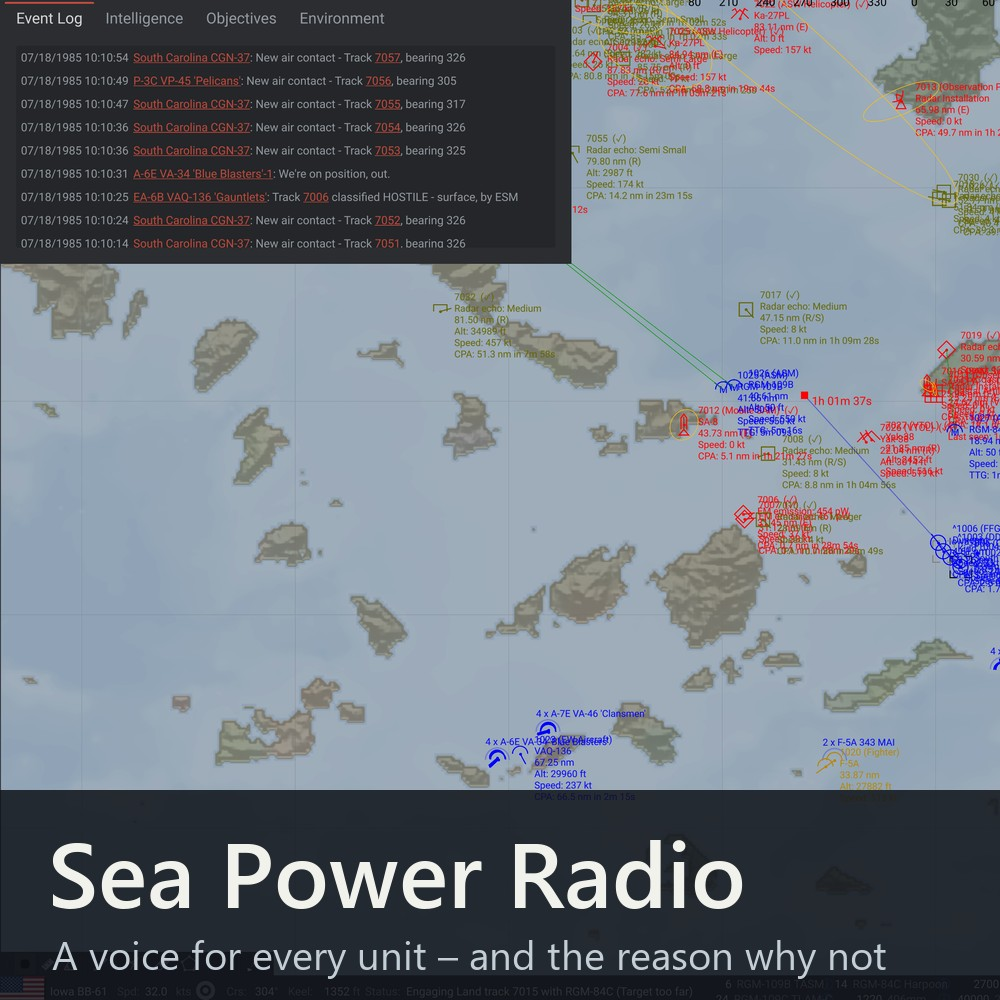
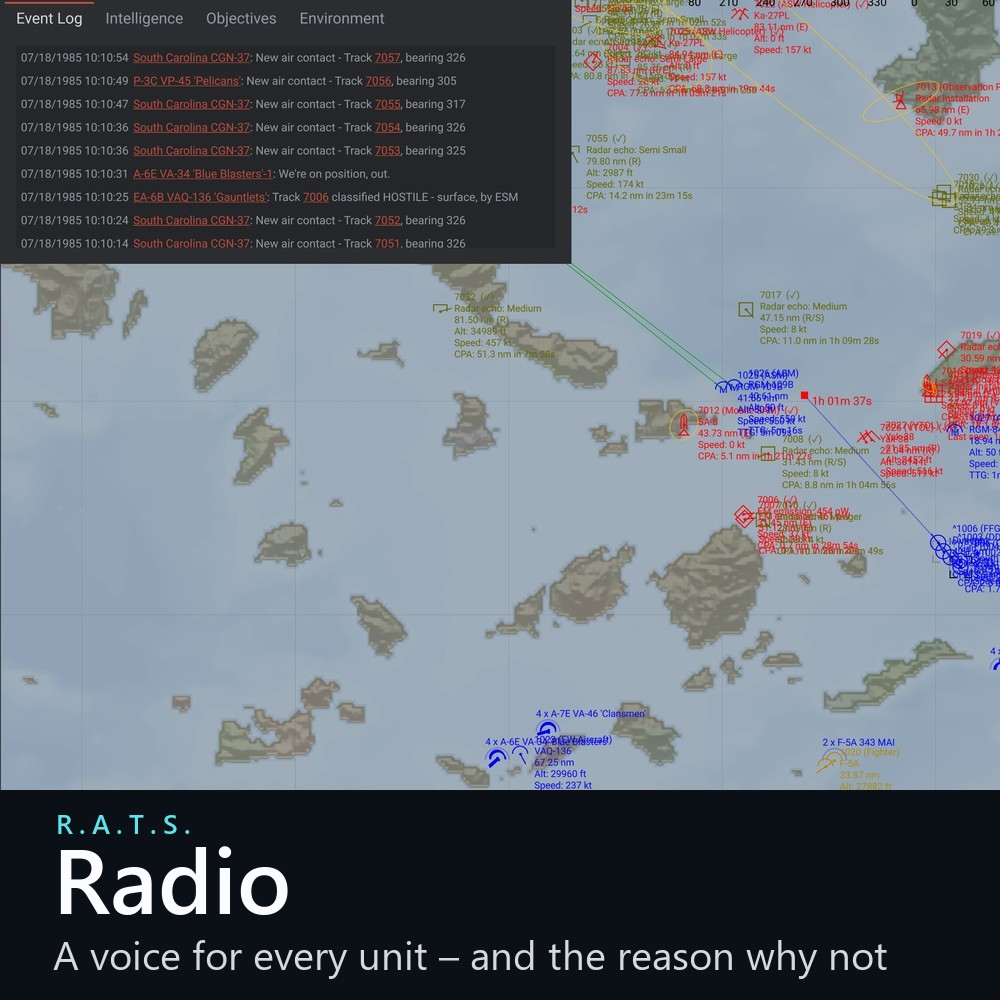
R.A.T.S. branding: README heading, Workshop description (title, tagline, signature) and main picture with the brand mark

Changed region(s): [[0.0, 0.775, 1.0, 1.0]]

diff --git a/README.md b/README.md
@@ -1,4 +1,4 @@
-# Sea Power Radio
+# Sea Power: R.A.T.S. Radio
 
 A mod for [Sea Power: Naval Combat in the Missile Age](https://store.steampowered.com/app/1286220/) that makes the
 radio net sound like people instead of a screen reader, and makes units tell you **why** they are not doing what you
@@ -85,7 +85,7 @@ everything works offline.
    community mod loader, following its
    [installation guide](https://seapower-modders.github.io/AnchorChain/install-anchor-chain.html) (one manual step:
    copy its preloader into the game folder).
-2. Subscribe to **[Sea Power: Rats Radio](https://steamcommunity.com/sharedfiles/filedetails/?id=3826433579)** on the Steam Workshop. About 390 MB: the
+2. Subscribe to **[Sea Power: R.A.T.S. Radio](https://steamcommunity.com/sharedfiles/filedetails/?id=3826433579)** on the Steam Workshop. About 390 MB: the
    43 rendered voices.
 3. Start a mission. The log `<Sea Power>\BepInEx\LogOutput.log` lists the roster: every unit with its callsign and
    voice.
